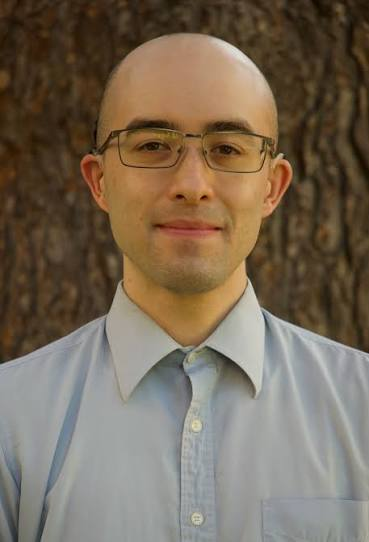
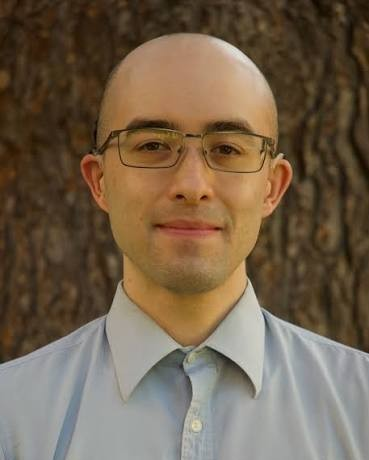
changes to the images and sections of index

diff --git a/index.html b/index.html
@@ -283,9 +283,9 @@
                     </article>
                     <article class="person-card">
                         <div class="person-photo">
-                            <img src="./assets/images/organizers/jane.jpg" alt="Jose Salazar">
+                            <img src="./assets/images/organizers/jose_salazar.jpeg" alt="Jose Salazar">
                         </div>
-                        <h3><a href="TBD" target="_blank">Jose Salazar</a></h3>
+                        <h3><a href="https://jvsl.dev/" target="_blank">Jose Salazar</a></h3>
                         <!-- <p class="person-role">TBD</p> -->
                         <p class="person-affiliation">PricewaterhouseCoopers</p>
                     </article> 
@@ -321,28 +321,32 @@
                         <!-- <p class="person-role">TBD</p> -->
                         <p class="person-affiliation">KTH - Royal Institute of Technology</p>
                     </article>
+                </div>
+            </div>
+        </section>
+        <section id="advisory-committee">
+            <h1 class="section-title">Advisory Committee</h1>
+            <div class="section-content">
+                <div class="card-grid organizer-grid">
                     <article class="person-card">
                         <div class="person-photo">
                             <img src="./assets/images/organizers/yukiyasu_domae.png" alt="Yukiyasu Domae">
                         </div>
                         <h3><a href="https://eart.airc.aist.go.jp/en/member/yukiyasu-domae/" target="_blank">Yukiyasu Domae</a></h3>
-                        <p class="person-role">Advisory Committee</p>
                         <p class="person-affiliation">AIST</p>
                     </article>
                     <article class="person-card">
                         <div class="person-photo">
                             <img src="./assets/images/organizers/kensuke_harada.png" alt="Kensuke Harada">
                         </div>
-                        <h3><a href="TBD" target="_blank">Kensuke Harada</a></h3>
-                        <p class="person-role">Advisory Committee</p>
+                        <h3><a href="https://www.roboticmanipulation.org/members2/kensuke-harada/" target="_blank">Kensuke Harada</a></h3>
                         <p class="person-affiliation">University of Osaka</p>
                     </article>
                     <article class="person-card">
                         <div class="person-photo">
                             <img src="./assets/images/organizers/tetsuya_ogata.png" alt="Tetsuya Ogata">
                         </div>
-                        <h3><a href="TBD" target="_blank">Tetsuya Ogata</a></h3>
-                        <p class="person-role">Advisory Committee</p>
+                        <h3><a href="https://ogata-lab.jp/member/ogata.html" target="_blank">Tetsuya Ogata</a></h3>
                         <p class="person-affiliation">Waseda University</p>
                     </article>
                 </div>

diff --git a/assets/js/navigation.js b/assets/js/navigation.js
@@ -43,7 +43,31 @@ function initializeNavigationMenus() {
     });
 }
 
+function initializeBackToTopButton() {
+    if (document.querySelector(".back-to-top")) {
+        return;
+    }
+
+    const button = document.createElement("button");
+    button.className = "back-to-top";
+    button.type = "button";
+    button.textContent = "Back to top";
+    button.setAttribute("aria-label", "Back to top");
+    button.addEventListener("click", () => {
+        window.scrollTo({ top: 0, behavior: "smooth" });
+    });
+    document.body.append(button);
+
+    function updateBackToTopVisibility() {
+        button.classList.toggle("is-visible", window.scrollY > 200);
+    }
+
+    window.addEventListener("scroll", updateBackToTopVisibility, { passive: true });
+    updateBackToTopVisibility();
+}
+
 document.addEventListener("DOMContentLoaded", markActiveNavigationLink);
 document.addEventListener("componentsLoaded", markActiveNavigationLink);
 document.addEventListener("DOMContentLoaded", initializeNavigationMenus);
 document.addEventListener("componentsLoaded", initializeNavigationMenus);
+document.addEventListener("DOMContentLoaded", initializeBackToTopButton);

diff --git a/assets/css/main.css b/assets/css/main.css
@@ -567,6 +567,44 @@ section {
     box-shadow: 0 12px 24px rgba(117, 87, 151, 0.16);
 }
 
+.back-to-top {
+    position: fixed;
+    right: 1.5rem;
+    bottom: 1.5rem;
+    z-index: 1001;
+    padding: 0.4rem 0.65rem;
+    border: 1px solid var(--card-border);
+    border-radius: 18px;
+    background: var(--card-bg);
+    box-shadow: 0 8px 20px var(--card-shadow);
+    color: var(--card-heading);
+    font: inherit;
+    font-size: 0.8rem;
+    font-weight: 600;
+    cursor: pointer;
+    opacity: 0;
+    visibility: hidden;
+    pointer-events: none;
+    transition: transform 0.25s ease, box-shadow 0.25s ease, border-color 0.25s ease, opacity 0.25s ease, visibility 0.25s ease;
+}
+
+.back-to-top.is-visible {
+    opacity: 1;
+    visibility: visible;
+    pointer-events: auto;
+}
+
+.back-to-top:hover {
+    transform: translateY(-3px);
+    border-color: rgba(142, 106, 176, 0.42);
+    box-shadow: 0 12px 24px rgba(117, 87, 151, 0.16);
+}
+
+.back-to-top:focus-visible {
+    outline: 3px solid var(--card-accent);
+    outline-offset: 3px;
+}
+
 .person-photo {
     width: min(100%, 150px);
     aspect-ratio: 5 / 6;
